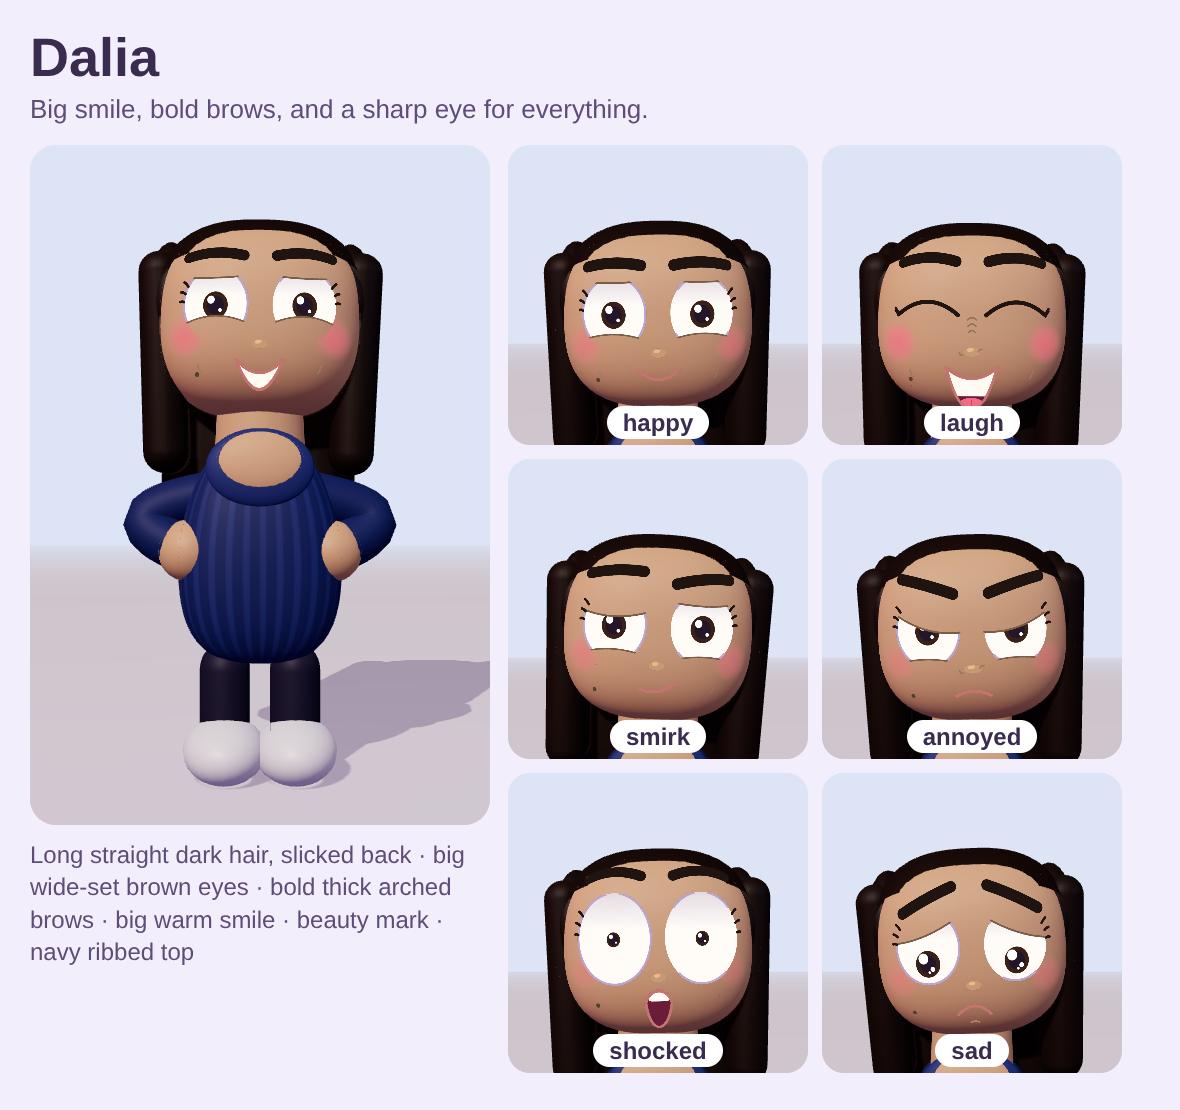
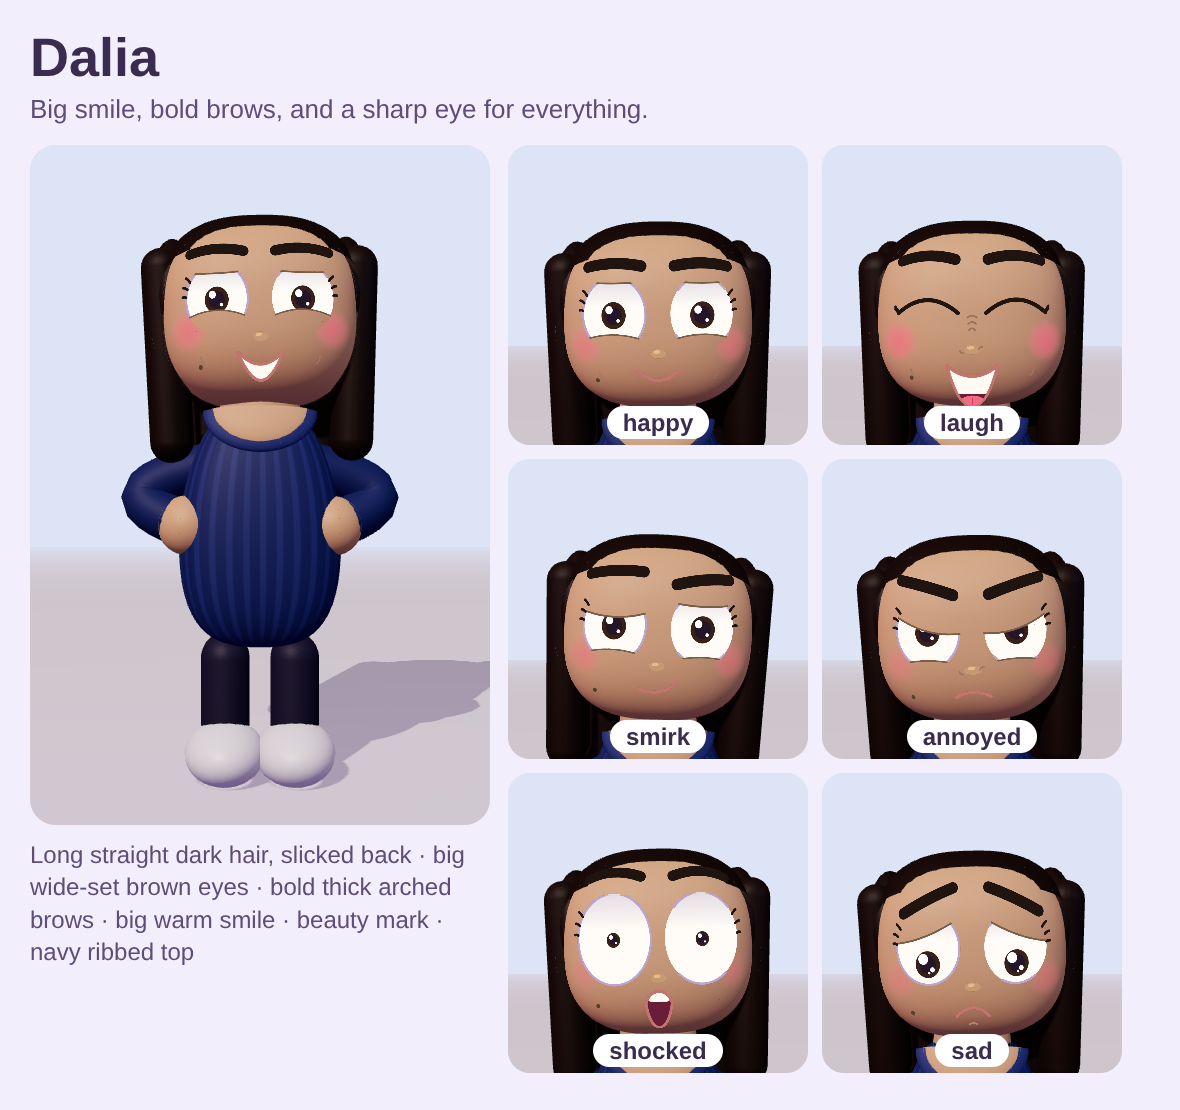
Dalia: taller, shorter neck, neckline trim is a U (no ring around the neck)
Claude-Session: https://claude.ai/code/session_01Kz45xjeG9hM21H2JXSeFXF

diff --git a/characters/expressive/body.js b/characters/expressive/body.js
@@ -115,12 +115,12 @@ export function createExpressiveKit(THREE, RoundedBoxGeometry, kit) {
     // torso: ONE soft egg, no neck
     const tmat = O.pattern ? new THREE.MeshStandardMaterial({ map: patternTex(O.pattern.type, O.top, O.pattern.color2), roughness: 0.6, metalness: 0.05 }) : mat(top, { roughness: 0.6 });
     const torso = new THREE.Mesh(egg(D.sx, D.sy, D.sz, { n: D.n, taper: D.taper }), tmat); torso.position.set(0, tc, 0); torso.castShadow = true; torso.receiveShadow = true; bodyG.add(torso);
-    if (O.neck) {   // a neck, and a regular round neckline (not a turtleneck): skin shows at the throat, with a thin trim around the opening
-      const chin = headY - HD.ry * B.head, nb = topY - 0.8, nh = chin + 0.35 - nb;
-      const neckM = new THREE.Mesh(new THREE.CylinderGeometry(0.6, 0.68, nh, 28), mat(skin, { roughness: 0.6 })); neckM.position.set(0, nb + nh / 2, -0.04); neckM.castShadow = true; bodyG.add(neckM);
-      const zN = eggZ(0, topY - 0.55, D);
-      const rim = new THREE.Mesh(new THREE.SphereGeometry(1, 28, 20), mat(hexn(O.neckRim || (O.pattern ? O.pattern.color2 : O.top)), { roughness: 0.6 })); rim.scale.set(0.74, 0.54, 0.15); rim.position.set(0, topY - 0.36, zN + 0.01); rim.rotation.x = -0.1; bodyG.add(rim);
-      const sc = new THREE.Mesh(new THREE.SphereGeometry(1, 28, 20), mat(skin, { roughness: 0.6 })); sc.scale.set(0.62, 0.44, 0.16); sc.position.set(0, topY - 0.3, zN + 0.03); sc.rotation.x = -0.1; bodyG.add(sc);
+    if (O.neck) {   // a neck and a regular round neckline (not a turtleneck): skin shows at the throat, and a thin trim follows only the BOTTOM curve of the opening (a U), so it never looks like a ring around the neck
+      const chin = headY - HD.ry * B.head, nb = topY - 0.3, nh = chin + 0.3 - nb;
+      const neckM = new THREE.Mesh(new THREE.CylinderGeometry(0.56, 0.62, nh, 28), mat(skin, { roughness: 0.6 })); neckM.position.set(0, nb + nh / 2, -0.04); neckM.castShadow = true; bodyG.add(neckM);
+      const zN = eggZ(0, topY - 0.7, D), trim = mat(hexn(O.neckRim || (O.pattern ? O.pattern.color2 : O.top)), { roughness: 0.6 }); trim.side = THREE.DoubleSide;
+      const rim = new THREE.Mesh(new THREE.SphereGeometry(1, 32, 16, 0, Math.PI * 2, Math.PI * 0.5, Math.PI * 0.5), trim); rim.scale.set(0.8, 0.62, 0.14); rim.position.set(0, topY - 0.1, zN + 0.02); rim.rotation.x = -0.42; bodyG.add(rim);
+      const sc = new THREE.Mesh(new THREE.SphereGeometry(1, 32, 16, 0, Math.PI * 2, Math.PI * 0.5, Math.PI * 0.5), mat(skin, { roughness: 0.6 })); sc.scale.set(0.7, 0.55, 0.15); sc.position.set(0, topY - 0.08, zN + 0.04); sc.rotation.x = -0.42; sc.material.side = THREE.DoubleSide; bodyG.add(sc);
     }
     if (O.dress) {   // a flared skirt (same fabric as the top) and a small white collar
       const prof = [[0.0, 0.5], [1.15 * B.w, 0.25], [1.4 * B.w, -0.2], [1.72 * B.w, -0.95], [1.82 * B.w, -1.32], [1.74 * B.w, -1.45], [1.5 * B.w, -1.38]].map(([r, y]) => new THREE.Vector2(r, y));
@@ -325,8 +325,8 @@ export function createExpressiveKit(THREE, RoundedBoxGeometry, kit) {
     { name: 'hana', tags: 'Soft round face · black bob with bangs · small eyes · coral top', bio: 'Quiet and observant. Her one raised eyebrow says it all.', skin: '#f3d0b0', hair: '#15121a', hairStyle: 'bangs', top: '#ff9b7a', bottom: '#4a4466', eye: '#2a1c14',
       build: { w: 0.95, h: 0.98, leg: 1.0, arm: 0.95 }, head: { rx: 1.46, ry: 1.24, rz: 1.2, n: 2.4 },
       look: { eyeScale: 0.92, eyeGap: 1.02, noseSize: 0.65, lipColor: '#c0485f', browThick: 0.85 } },
-    { name: 'dalia', tags: 'Long straight dark hair, slicked back · big wide-set brown eyes · bold thick arched brows · big warm smile · beauty mark · navy ribbed top', bio: 'Big smile, bold brows, and a sharp eye for everything.', skin: '#dcaa82', hair: '#2a1a16', hairStyle: 'long', hairFlow: true, neck: 0.62, top: '#27356b', pattern: { type: 'ribs', color2: '#33427d' }, bottom: '#2f2a45', eye: '#3a2118', browColor: '#1f1410',
-      build: { w: 0.9, h: 1.0, leg: 1.2, arm: 1.0 }, torsoN: 2.9, taper: 0.16, torsoDepth: 0.88, head: { rx: 1.42, ry: 1.33, rz: 1.18, n: 2.6 },
+    { name: 'dalia', tags: 'Long straight dark hair, slicked back · big wide-set brown eyes · bold thick arched brows · big warm smile · beauty mark · navy ribbed top', bio: 'Big smile, bold brows, and a sharp eye for everything.', skin: '#dcaa82', hair: '#2a1a16', hairStyle: 'long', hairFlow: true, neck: 0.28, top: '#27356b', pattern: { type: 'ribs', color2: '#33427d' }, bottom: '#2f2a45', eye: '#3a2118', browColor: '#1f1410',
+      build: { w: 0.92, h: 1.12, leg: 1.45, arm: 1.08 }, torsoN: 2.9, taper: 0.16, torsoDepth: 0.88, head: { rx: 1.42, ry: 1.33, rz: 1.18, n: 2.6 },
       look: { lashes: 0.5, eyeScale: 1.1, eyeGap: 1.02, browThick: 1.45, noseSize: 1.12, lipColor: '#c4746f', mole: { x: -262, y: 262 } } },
     { name: 'nina', tags: 'Six years old · dark curly pigtails with pink ties · big brown eyes · rosy cheeks · cream flower dress with a white collar', bio: 'Six years old, full of questions, and never sits still.', skin: '#f0c9a6', hair: '#43291b', hairStyle: 'pigtails', top: '#f6efe2', pattern: { type: 'floral', color2: '#f0a9b4' }, dress: true, buttons: '#f4efe6', bottom: '#f4e8dc', shoe: '#7a5642', eye: '#3a2118', browColor: '#2a1a12', kid: true,
       build: { w: 0.9, h: 0.8, leg: 0.8, head: 1.2, arm: 0.88 }, head: { rx: 1.5, ry: 1.3, rz: 1.2, n: 2.4 },
